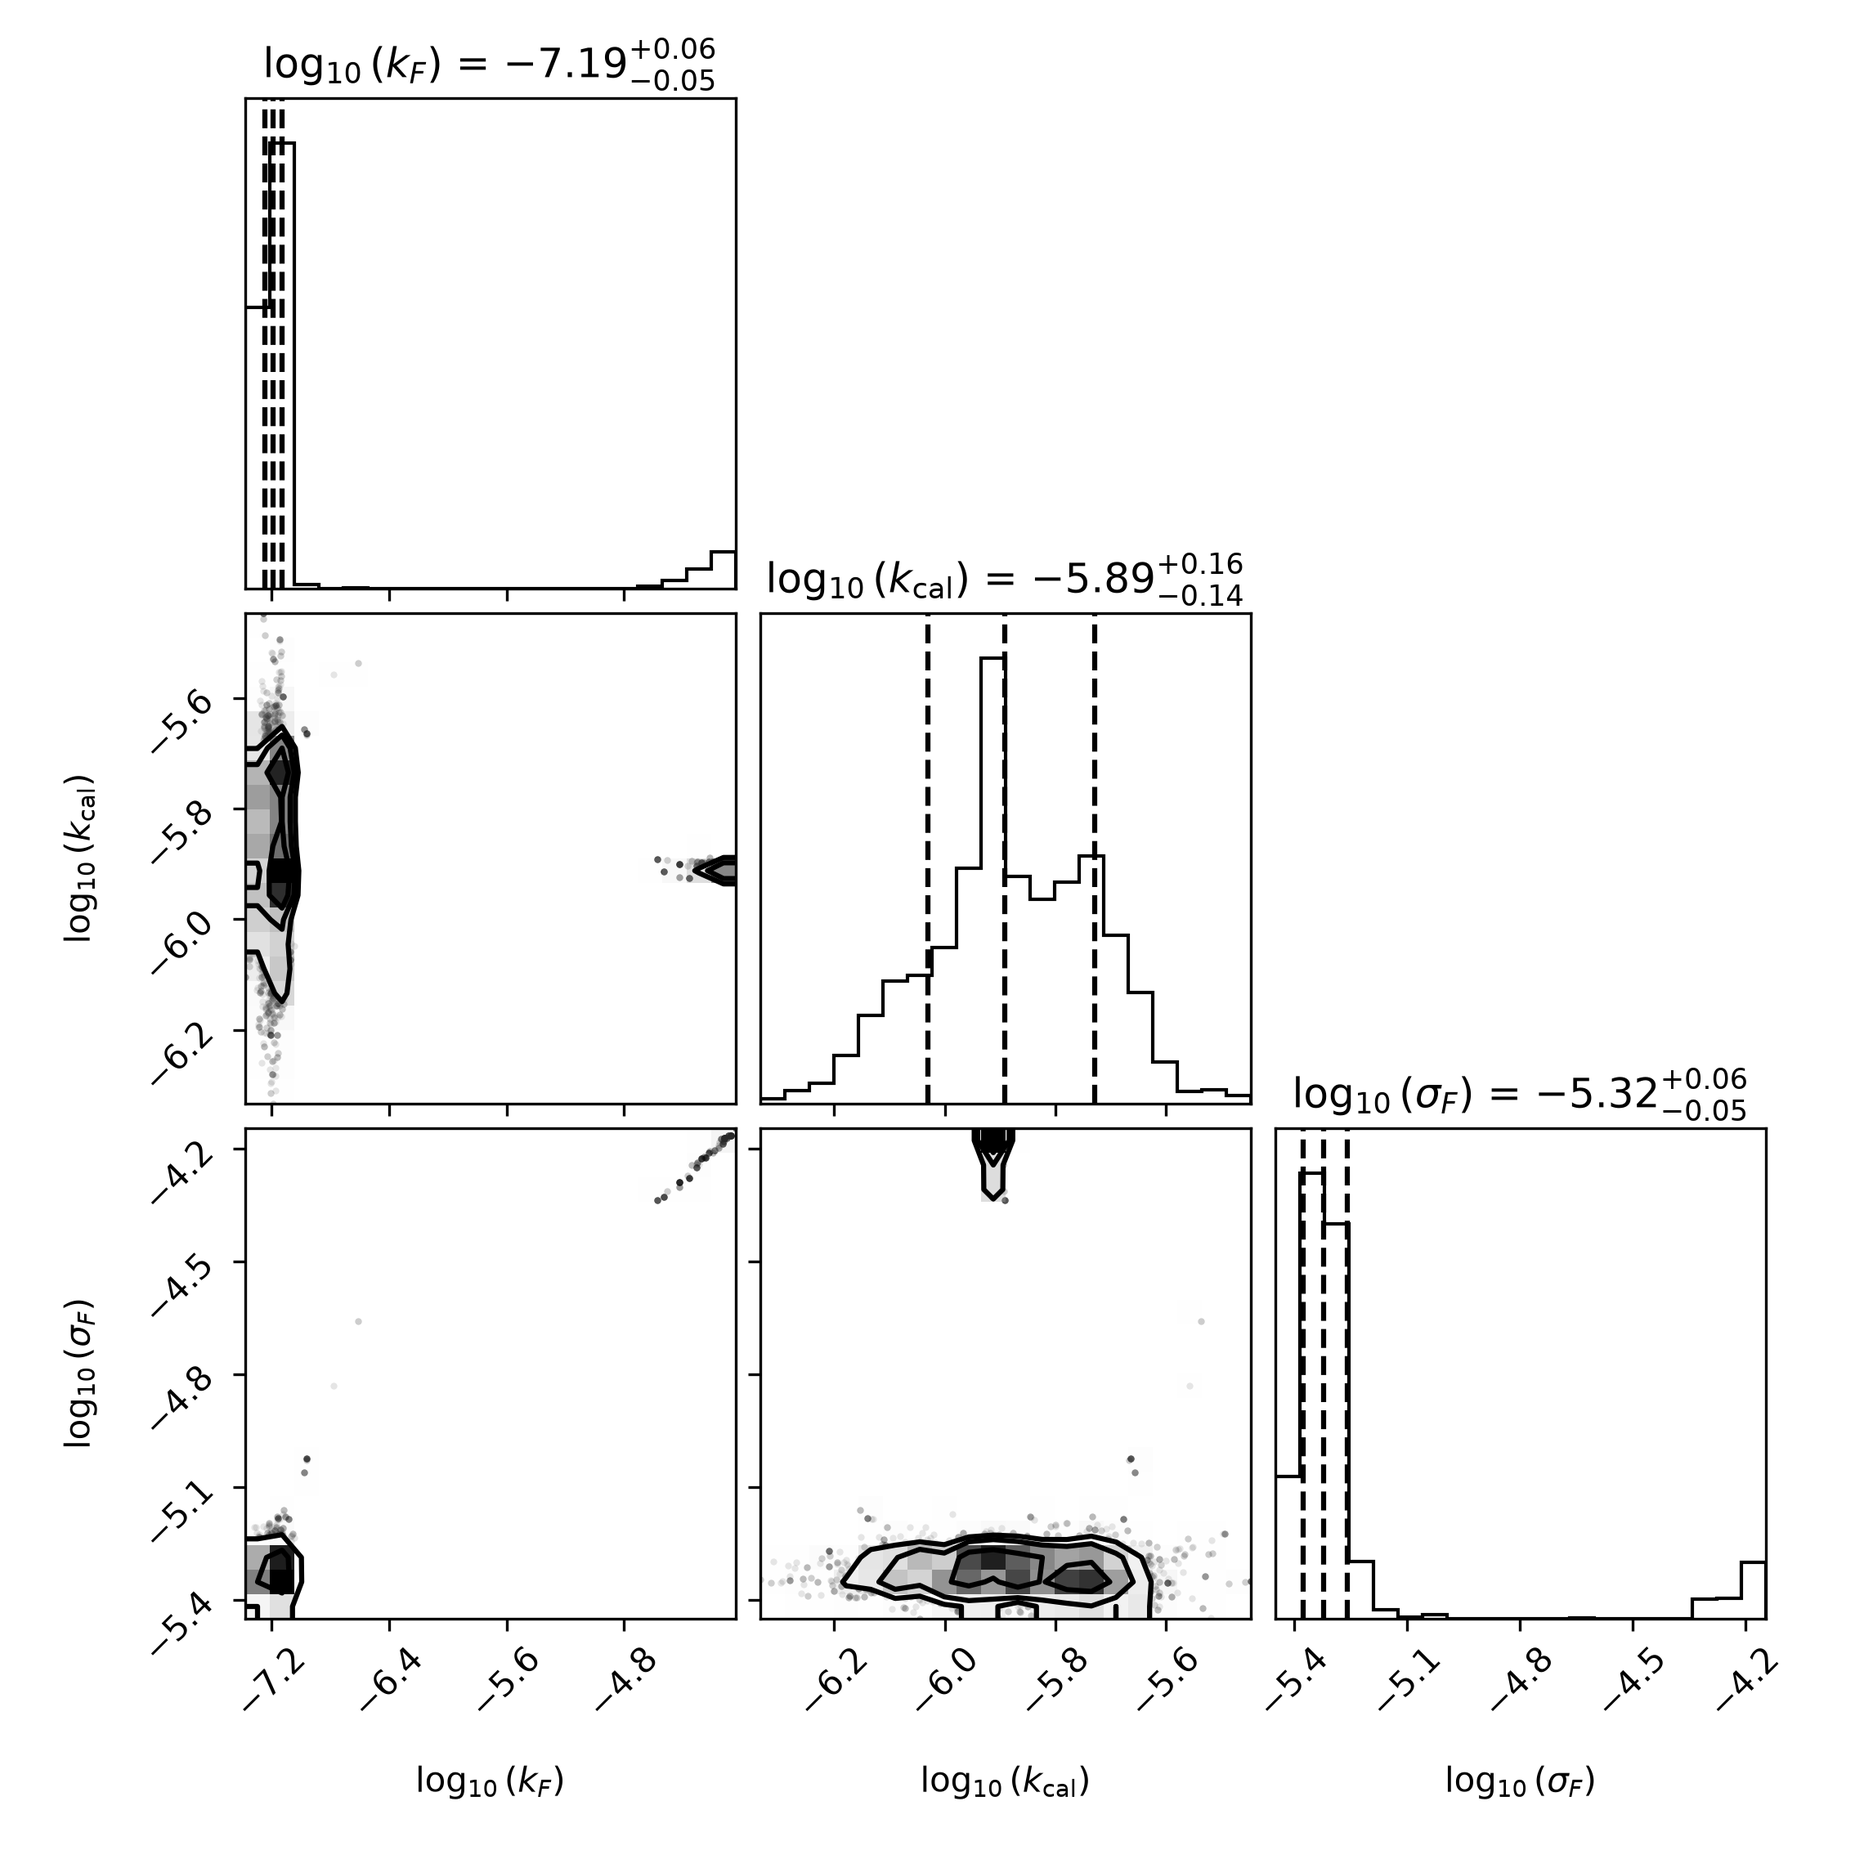
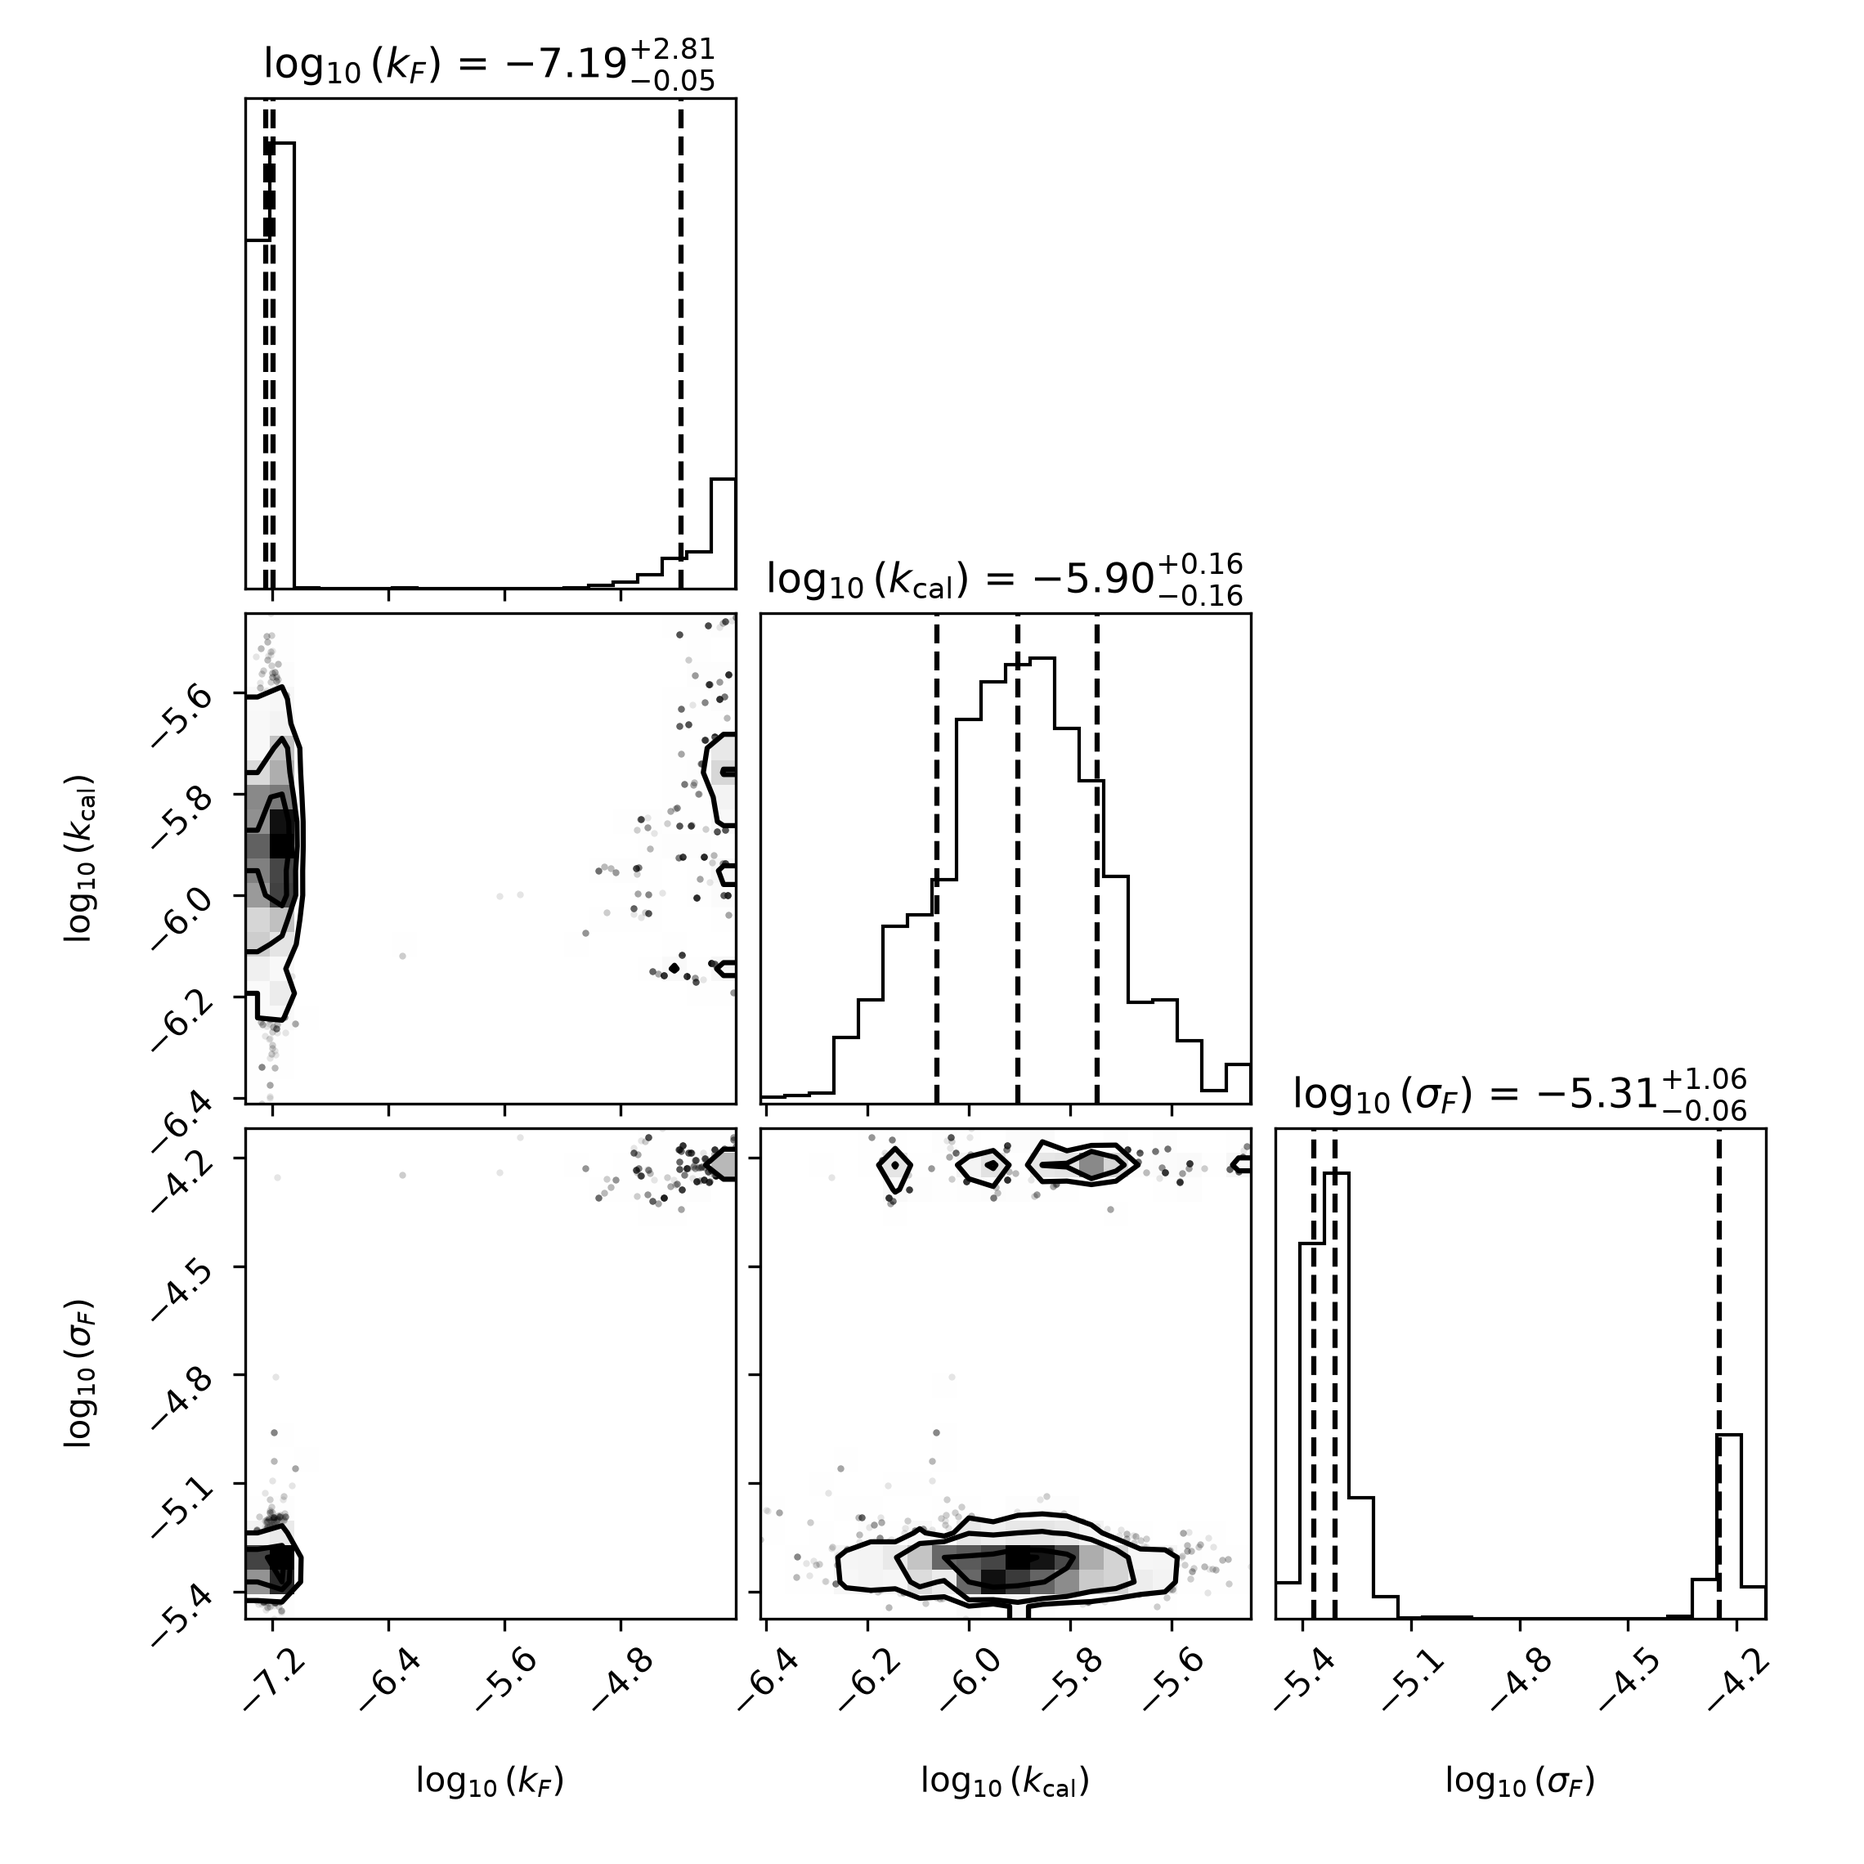
publish

diff --git a/case1.py b/case1.py
@@ -6,71 +6,47 @@ import emcee
 import corner
 
 # ==============================================================================
-# 1. LOAD EXPERIMENTAL DATA FROM EXCEL (CF_Exp data.xlsx)
+# 1. EXPERIMENTAL CONDITIONS FROM EXCEL (CF_Exp data.xlsx)
 # ==============================================================================
-# Column Mapping in your Excel sheet:
-#   Cols (1, 2) -> B & C: Q = 0.01 mL/min, Fin = 2 mg/L (~0.105 mM)
-#   Cols (3, 4) -> D & E: Q = 0.04 mL/min, Fin = 4 mg/L (~0.211 mM)
-#   Cols (5, 6) -> F & G: Q = 0.03 mL/min, Fin = 8 mg/L (~0.421 mM)
-#   Cols (7, 8) -> H & I: Q = 0.04 mL/min, Fin = 2 mg/L (~0.105 mM)
+CONDITIONS = [
+    {"name": "Q = 0.01 mL/min, Fin = 2 mg/L", "col_t": 1, "col_f": 2, "id": "cond1"},
+    {"name": "Q = 0.04 mL/min, Fin = 4 mg/L", "col_t": 3, "col_f": 4, "id": "cond2"},
+    {"name": "Q = 0.03 mL/min, Fin = 8 mg/L", "col_t": 5, "col_f": 6, "id": "cond3"},
+    {"name": "Q = 0.04 mL/min, Fin = 2 mg/L", "col_t": 7, "col_f": 8, "id": "cond4"}
+]
 
 excel_file = "CF_Exp data.xlsx"
 df = pd.read_excel(excel_file, header=None)
 
-# Select dataset (e.g., Cols B & C: Q=0.01, Fin=2 mg/L)
-COL_TIME = 1  # Col B
-COL_F = 2     # Col C
-
-# Parse experimental Time (min) and Effluent Fluoride (M)
-t_raw = pd.to_numeric(df.iloc[4:, COL_TIME], errors="coerce")
-f_raw = pd.to_numeric(df.iloc[4:, COL_F], errors="coerce")
-valid_mask = t_raw.notna() & f_raw.notna()
-
-exp_dataset = {
-    "t_min": t_raw[valid_mask].values,
-    "F_meas": f_raw[valid_mask].values
-}
-
-# Read inflow conditions from header rows
-Q_ml_min = float(df.iloc[0, COL_TIME])       # 0.01 mL/min
-Fin_mg_L = float(df.iloc[1, COL_TIME])       # 2 mg/L
-Fin_M = (Fin_mg_L * 1e-3) / 18.9984          # Convert mg/L to M (MW_F = 18.9984 g/mol)
-
-print(f"Loaded Condition: Q = {Q_ml_min} mL/min | Fin = {Fin_mg_L} mg/L ({Fin_M*1e3:.3f} mM)")
-print(f"Total experimental points: {len(exp_dataset['t_min'])}")
-
 # ==============================================================================
-# 2. PHYSICAL CONSTANTS & REACTOR CONFIGURATION (Thesis Section 5.2)
+# 2. CFSTR BASE CONFIGURATION (Thesis Section 5.2)
 # ==============================================================================
-REACTOR_CONFIG = {
-    "V": 0.058,                     # Volume (L) [58 mL]
-    "Q": Q_ml_min * 1e-3,           # Convert mL/min to L/min
-    "Fin": Fin_M,                   # Influent F (M)
-    "Ccal_0": 4.0,                  # Initial calcite (g/L)
-    "SSA_cal": 3.0,                 # Calcite area (m2/g)
-    "MW_cal": 100.0869,             # g/mol
+BASE_CONFIG = {
+    "V": 0.058,              # Reactor Volume (L) [58 mL]
+    "Ccal_0": 4.0,           # Calcite loading (g/L)
+    "SSA_cal": 3.0,          # Specific surface area (m2/g)
+    "MW_cal": 100.0869,      # g/mol
     "Ksp_cal": 10**(-8.48),
-    "gamma_Ca": 0.87,               # Davies activity coeff at I=1 mM
+    "gamma_Ca": 0.87,        # Activity coefficient at I = 1 mM
     "gamma_CO3": 0.90,
     "gamma_F": 0.87,
     "alpha0": 0.0967,
-    "kgl": 10**(-2.145),            # CO2 mass transfer (min^-1)
+    "kgl": 10**(-2.145),     # CO2 mass transfer rate (min^-1)
     "CO3_sat": 10**(-5.0)
 }
 
 # ==============================================================================
-# 3. CFSTR GOVERNING EQUATIONS (ODEs)
+# 3. ODE MASS BALANCES
 # ==============================================================================
 def cfstr_cf_odes(t, y, params, config):
     F, Ca, CO3, Ccal, Fs = y
-    
     Q = config["Q"]
     Fin = config["Fin"]
     kF = 10**params["log10_kF"]      # min^-1
     kcal = 10**params["log10_kcal"]  # mol/(m2*min)
     
     # 1. Langmuir Adsorption (Thesis Eq. 5.35)
-    # F in M; Fs* in umol/g
+    # F in M; convert to uM for isotherm: F_uM = F * 1e6
     F_uM = max(0.0, F * 1e6)
     Fs_star = (625.0 * F_uM) / (1.0 + 0.061 * F_uM)
     dFs_dt = kF * (Fs_star - Fs)
@@ -80,7 +56,7 @@ def cfstr_cf_odes(t, y, params, config):
     f_G_cal = (IAP_cal / config["Ksp_cal"]) - 1.0
     r_diss_cal = -kcal * config["SSA_cal"] * max(0.0, Ccal) * f_G_cal
     
-    # 3. Liquid Mass Balances
+    # 3. Liquid & Solid Mass Balances
     dF_dt = (Q / config["V"]) * (Fin - F) - max(0.0, Ccal) * dFs_dt * 1e-6
     dCa_dt = -(Q / config["V"]) * Ca + r_diss_cal
     r_gas = config["kgl"] * ((config["CO3_sat"] / config["alpha0"]) - CO3)
@@ -90,9 +66,7 @@ def cfstr_cf_odes(t, y, params, config):
     return [dF_dt, dCa_dt, dCO3_dt, dCcal_dt, dFs_dt]
 
 def run_forward_model(params, time_points, config):
-    # Initial Conditions: F=0, Ca=10^-3.69 M, CO3=10^-5 M, Ccal=4 g/L, Fs=0
     y0 = [0.0, 10**(-3.69), 10**(-5.0), config["Ccal_0"], 0.0]
-    
     sol = solve_ivp(
         fun=lambda t, y: cfstr_cf_odes(t, y, params, config),
         t_span=[0.0, max(time_points)],
@@ -102,20 +76,18 @@ def run_forward_model(params, time_points, config):
         rtol=1e-5,
         atol=1e-8
     )
-    return sol.y[0]  # Return simulated F(t)
+    return sol.y[0]
 
 # ==============================================================================
-# 4. BAYESIAN LIKELIHOOD & MCMC SAMPLER
+# 4. BAYESIAN LOG-PRIOR & LOG-LIKELIHOOD
 # ==============================================================================
-# Parameter vector: theta = [log10_kF, log10_kcal, log_sigma_F]
-
 def log_prior(theta):
     log10_kF, log10_kcal, log_sigma_F = theta
-    if not (-8.0 <= log10_kF <= -4.0):
+    if not (-9.0 <= log10_kF <= -4.0):
         return -np.inf
     if not (-7.0 <= log10_kcal <= -5.0):
         return -np.inf
-    if not (-8.0 <= log_sigma_F <= -4.0):
+    if not (-8.0 <= log_sigma_F <= -3.0):
         return -np.inf
     # Informative prior on kcal from independent batch dissolution test: N(-5.90, 0.15)
     return -0.5 * ((log10_kcal - (-5.90)) / 0.15)**2
@@ -123,13 +95,11 @@ def log_prior(theta):
 def log_likelihood(theta, exp_data, config):
     log10_kF, log10_kcal, log_sigma_F = theta
     sigma_F = 10**log_sigma_F
-    
     params = {"log10_kF": log10_kF, "log10_kcal": log10_kcal}
     try:
         F_sim = run_forward_model(params, exp_data["t_min"], config)
     except Exception:
         return -np.inf
-        
     res = exp_data["F_meas"] - F_sim
     n = len(exp_data["t_min"])
     return -0.5 * np.sum((res / sigma_F)**2) - n * np.log(sigma_F * np.sqrt(2 * np.pi))
@@ -141,60 +111,112 @@ def log_posterior(theta, exp_data, config):
     return lp + log_likelihood(theta, exp_data, config)
 
 # ==============================================================================
-# 5. EXECUTION & INFERENCE
+# 5. EXECUTION ACROSS ALL FOUR CONDITIONS
 # ==============================================================================
 if __name__ == "__main__":
+    results = {}
     ndim = 3
-    nwalkers = 12
+    nwalkers = 16
     n_burnin = 200
     n_steps = 400
     
-    # Initialize walkers around prior center
-    init_pos = np.array([-5.70, -5.90, -5.50]) + 0.05 * np.random.randn(nwalkers, ndim)
+    # Setup 2x2 grid for the 4 conditions
+    fig_all, axes = plt.subplots(2, 2, figsize=(13, 9), sharey=False)
+    axes_flat = axes.flatten()
     
-    print("\nStarting MCMC sampling with emcee...")
-    sampler = emcee.EnsembleSampler(
-        nwalkers, ndim, log_posterior, args=(exp_dataset, REACTOR_CONFIG)
-    )
-    sampler.run_mcmc(init_pos, n_steps + n_burnin, progress=True)
-    
-    samples = sampler.get_chain(discard=n_burnin, flat=True)
-    
-    labels = [r"$\log_{10}(k_F)$", r"$\log_{10}(k_{\mathrm{cal}})$", r"$\log_{10}(\sigma_F)$"]
-    print("\n=== POSTERIOR ESTIMATES (16th, 50th, 84th percentiles) ===")
-    for i in range(ndim):
-        mcmc = np.percentile(samples[:, i], [16, 50, 84])
-        q = np.diff(mcmc)
-        print(f"{labels[i]}: {mcmc[1]:.3f} (+{q[1]:.3f} / -{q[0]:.3f})")
+    for idx, cond in enumerate(CONDITIONS):
+        print(f"\n=======================================================")
+        print(f"RUNNING CONDITION {idx+1}: {cond['name']}")
+        print(f"=======================================================")
         
-    # Generate Corner Plot
-    fig_corner = corner.corner(samples, labels=labels, quantiles=[0.16, 0.50, 0.84], show_titles=True)
-    fig_corner.savefig("case1_corner.png", dpi=300)
-    print("\nSaved parameter corner plot -> case1_corner.png")
-    
-    # Generate Posterior Predictive Check Plot
-    t_fine = np.linspace(0, max(exp_dataset["t_min"]), 150)
-    trajectories = []
-    for idx in np.random.randint(len(samples), size=80):
-        th = samples[idx]
-        f_sim = run_forward_model({"log10_kF": th[0], "log10_kcal": th[1]}, t_fine, REACTOR_CONFIG)
-        trajectories.append(f_sim)
+        # Parse experimental time and Fluoride
+        t_raw = pd.to_numeric(df.iloc[4:, cond["col_t"]], errors="coerce")
+        f_raw = pd.to_numeric(df.iloc[4:, cond["col_f"]], errors="coerce")
+        mask = t_raw.notna() & f_raw.notna()
         
-    trajectories = np.array(trajectories)
-    f_low = np.percentile(trajectories, 2.5, axis=0) * 1e3
-    f_med = np.percentile(trajectories, 50.0, axis=0) * 1e3
-    f_high = np.percentile(trajectories, 97.5, axis=0) * 1e3
+        t_data = t_raw[mask].values
+        f_data = f_raw[mask].values
+        
+        Q_ml = float(df.iloc[0, cond["col_t"]])
+        Fin_mg = float(df.iloc[1, cond["col_t"]])
+        Fin_M = (Fin_mg * 1e-3) / 18.9984
+        
+        cfg = BASE_CONFIG.copy()
+        cfg["Q"] = Q_ml * 1e-3
+        cfg["Fin"] = Fin_M
+        
+        exp_data = {"t_min": t_data, "F_meas": f_data}
+        
+        # Initialize walkers
+        init_pos = np.array([-7.0, -5.9, -5.0]) + 0.05 * np.random.randn(nwalkers, ndim)
+        sampler = emcee.EnsembleSampler(nwalkers, ndim, log_posterior, args=(exp_data, cfg))
+        sampler.run_mcmc(init_pos, n_steps + n_burnin, progress=True)
+        
+        samples = sampler.get_chain(discard=n_burnin, flat=True)
+        results[cond["id"]] = {"samples": samples, "cfg": cfg, "data": exp_data, "name": cond["name"]}
+        
+        # Parameter summary
+        kF_p16, kF_p50, kF_p84 = np.percentile(samples[:, 0], [16, 50, 84])
+        print(f"Inferred log10(kF): {kF_p50:.3f} (+{kF_p84-kF_p50:.3f} / -{kF_p50-kF_p16:.3f})")
+        
+        # Save corner plot for this condition
+        fig_c = corner.corner(
+            samples, 
+            labels=[r"$\log_{10}(k_F)$", r"$\log_{10}(k_{\mathrm{cal}})$", r"$\log_{10}(\sigma_F)$"],
+            quantiles=[0.16, 0.50, 0.84],
+            show_titles=True
+        )
+        fig_c.savefig(f"case1_corner_{cond['id']}.png", dpi=300)
+        plt.close(fig_c)
+        
+        # Plot on 2x2 subplot
+        ax = axes_flat[idx]
+        t_fine = np.linspace(0, max(t_data), 150)
+        trajectories = []
+        for s_idx in np.random.randint(len(samples), size=80):
+            th = samples[s_idx]
+            f_sim = run_forward_model({"log10_kF": th[0], "log10_kcal": th[1]}, t_fine, cfg)
+            trajectories.append(f_sim)
+        trajectories = np.array(trajectories)
+        
+        f_low = np.percentile(trajectories, 2.5, axis=0) * 1e3
+        f_med = np.percentile(trajectories, 50.0, axis=0) * 1e3
+        f_high = np.percentile(trajectories, 97.5, axis=0) * 1e3
+        
+        ax.plot(t_data, f_data * 1e3, "ro", ms=4, label="Data")
+        ax.plot(t_fine, f_med, "b-", lw=2, label="Median Posterior")
+        ax.fill_between(t_fine, f_low, f_high, color="blue", alpha=0.2, label="95% CI")
+        ax.axhline(Fin_M * 1e3, color="gray", linestyle=":", label=f"Fin ({Fin_mg} mg/L)")
+        ax.set_title(cond["name"], fontsize=11, fontweight="bold")
+        ax.set_xlabel("Time (min)")
+        ax.set_ylabel("Effluent Fluoride (mM)")
+        ax.grid(True, linestyle="--", alpha=0.5)
+        ax.legend(fontsize=8)
+        
+    fig_all.tight_layout()
+    fig_all.savefig("case1_all_fits_comparison.png", dpi=300)
+    print("\nSaved 4-panel comparison -> case1_all_fits_comparison.png")
     
-    plt.figure(figsize=(7, 4.5))
-    plt.plot(exp_dataset["t_min"], exp_dataset["F_meas"] * 1e3, "ro", label="Experimental F Data")
-    plt.plot(t_fine, f_med, "b-", lw=2, label="Median Posterior Model")
-    plt.fill_between(t_fine, f_low, f_high, color="blue", alpha=0.2, label="95% Credible Interval")
-    plt.axhline(REACTOR_CONFIG["Fin"] * 1e3, color="gray", linestyle=":", label="Inflow Fin")
-    plt.xlabel("Time (min)")
-    plt.ylabel("Effluent Fluoride (mM)")
-    plt.title(f"Case 1 (C+F): Q = {Q_ml_min} mL/min, Fin = {Fin_mg_L} mg/L")
-    plt.legend()
-    plt.grid(True, linestyle="--", alpha=0.5)
+    # ==============================================================================
+    # 6. OVERLAID POSTERIOR COMPARISON PLOT FOR kF
+    # ==============================================================================
+    plt.figure(figsize=(7.5, 4.5))
+    colors = ["#1f77b4", "#ff7f0e", "#2ca02c", "#d62728"]
+    for idx, cond in enumerate(CONDITIONS):
+        kF_samples = results[cond["id"]]["samples"][:, 0]
+        plt.hist(
+            kF_samples, 
+            bins=25, 
+            density=True, 
+            alpha=0.40, 
+            color=colors[idx], 
+            label=cond["name"]
+        )
+    plt.xlabel(r"$\log_{10}(k_F)$  $[\mathrm{min}^{-1}]$", fontsize=11)
+    plt.ylabel("Posterior Probability Density", fontsize=11)
+    plt.title("Comparison of Inferred Adsorption Rate Constant Across All 4 Conditions", fontweight="bold")
+    plt.legend(fontsize=9)
+    plt.grid(True, linestyle="--", alpha=0.4)
     plt.tight_layout()
-    plt.savefig("case1_posterior_fit.png", dpi=300)
-    print("Saved posterior fit plot -> case1_posterior_fit.png")
+    plt.savefig("case1_kF_posteriors_comparison.png", dpi=300)
+    print("Saved posterior comparison plot -> case1_kF_posteriors_comparison.png")
